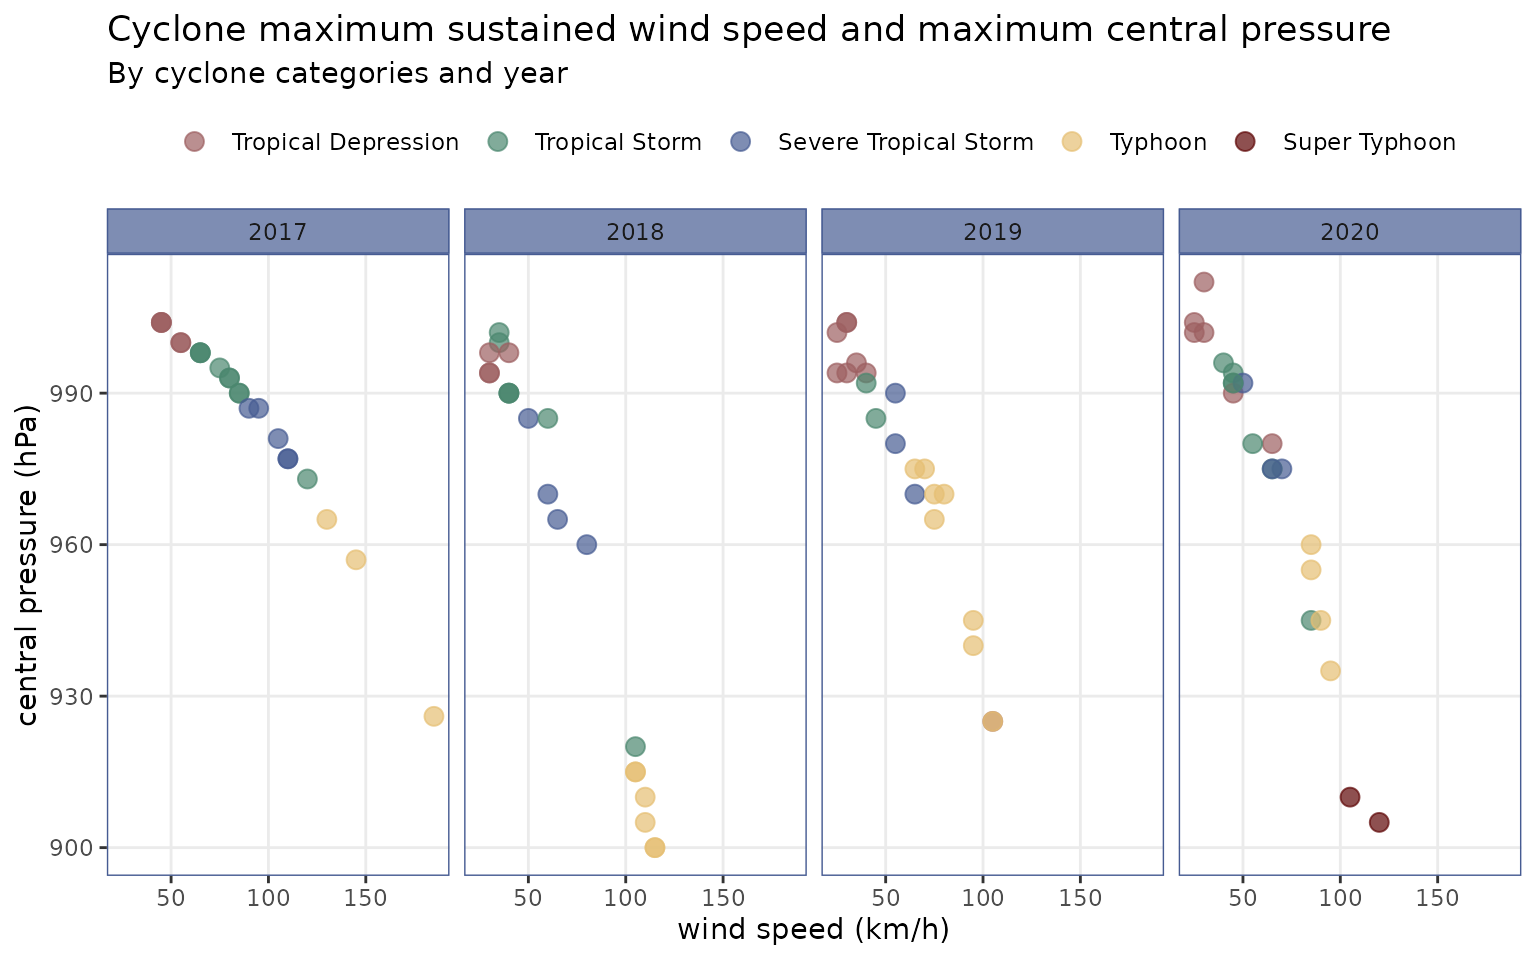
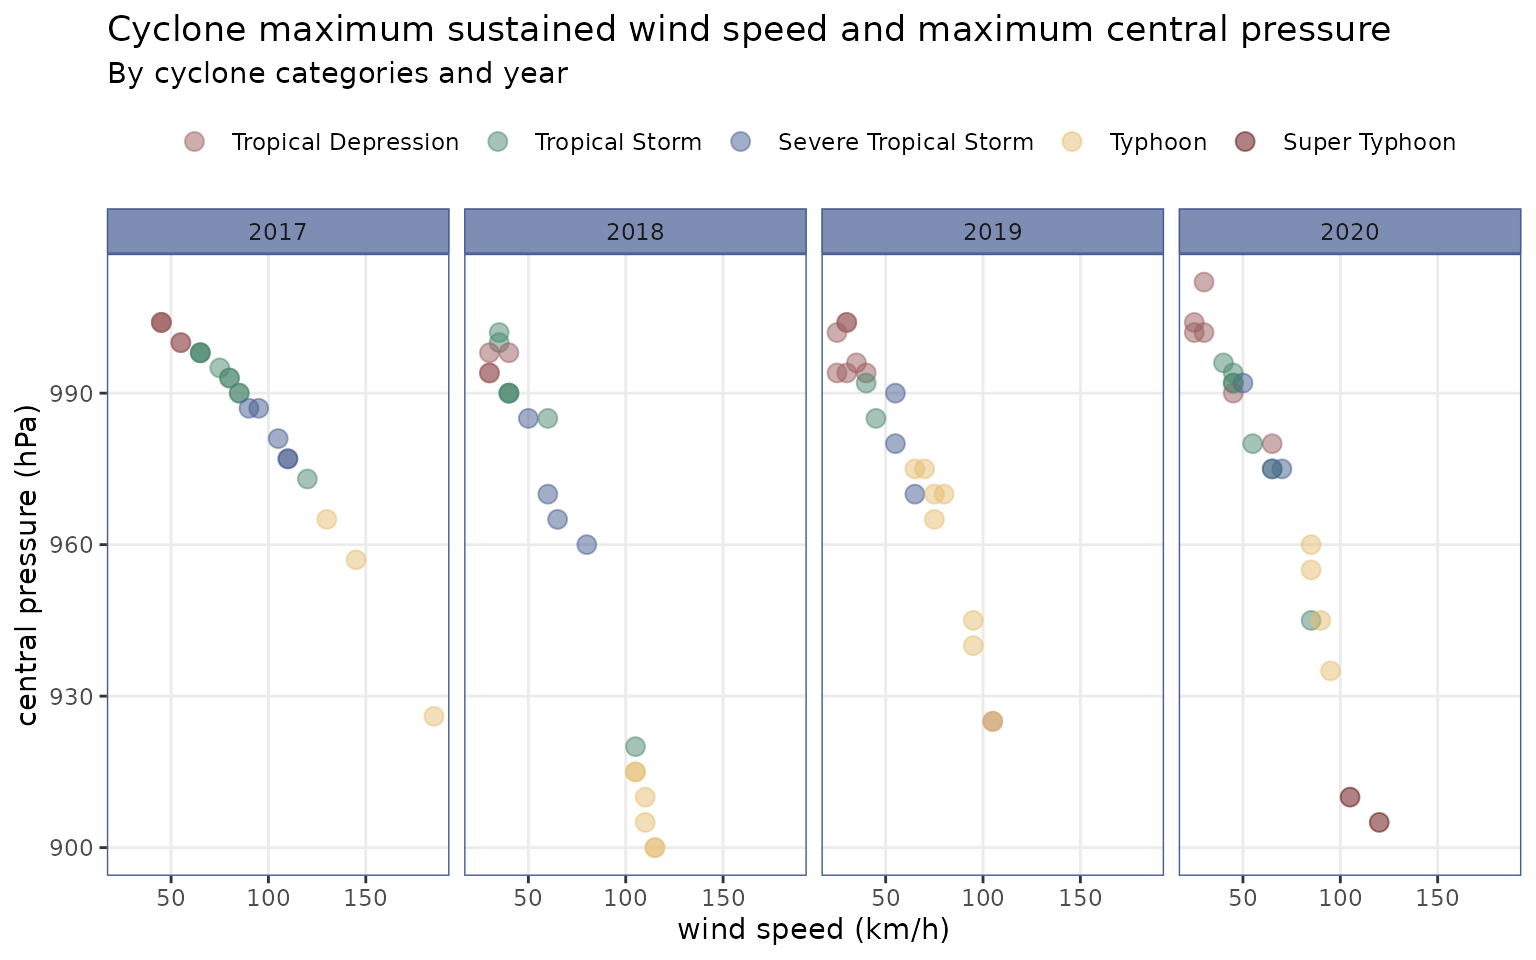
Deploying to gh-pages from @ panukatan/bagyo@9ae0af8d1ca982eabed6b3985126cda7ddf095fb 🚀

diff --git a/reference/cyclones.html b/reference/cyclones.html
@@ -1,5 +1,5 @@
 <!DOCTYPE html>
-<!-- Generated by pkgdown: do not edit by hand --><html lang="en"><head><meta http-equiv="Content-Type" content="text/html; charset=UTF-8"><meta charset="utf-8"><meta http-equiv="X-UA-Compatible" content="IE=edge"><meta name="viewport" content="width=device-width, initial-scale=1, shrink-to-fit=no"><meta name="description" content="Table of tropical cyclones that entered the Philippines from 2017 to 2020s"><title>Table of tropical cyclones that entered the Philippines from 2017 to 2020s — cyclones • bagyo</title><!-- favicons --><link rel="icon" type="image/png" sizes="16x16" href="../favicon-16x16.png"><link rel="icon" type="image/png" sizes="32x32" href="../favicon-32x32.png"><link rel="apple-touch-icon" type="image/png" sizes="180x180" href="../apple-touch-icon.png"><link rel="apple-touch-icon" type="image/png" sizes="120x120" href="../apple-touch-icon-120x120.png"><link rel="apple-touch-icon" type="image/png" sizes="76x76" href="../apple-touch-icon-76x76.png"><link rel="apple-touch-icon" type="image/png" sizes="60x60" href="../apple-touch-icon-60x60.png"><script src="../deps/jquery-3.6.0/jquery-3.6.0.min.js"></script><meta name="viewport" content="width=device-width, initial-scale=1, shrink-to-fit=no"><link href="../deps/bootstrap-5.3.1/bootstrap.min.css" rel="stylesheet"><script src="../deps/bootstrap-5.3.1/bootstrap.bundle.min.js"></script><!-- Font Awesome icons --><link rel="stylesheet" href="https://cdnjs.cloudflare.com/ajax/libs/font-awesome/5.12.1/css/all.min.css" integrity="sha256-mmgLkCYLUQbXn0B1SRqzHar6dCnv9oZFPEC1g1cwlkk=" crossorigin="anonymous"><link rel="stylesheet" href="https://cdnjs.cloudflare.com/ajax/libs/font-awesome/5.12.1/css/v4-shims.min.css" integrity="sha256-wZjR52fzng1pJHwx4aV2AO3yyTOXrcDW7jBpJtTwVxw=" crossorigin="anonymous"><!-- bootstrap-toc --><script src="https://cdn.jsdelivr.net/gh/afeld/bootstrap-toc@v1.0.1/dist/bootstrap-toc.min.js" integrity="sha256-4veVQbu7//Lk5TSmc7YV48MxtMy98e26cf5MrgZYnwo=" crossorigin="anonymous"></script><!-- headroom.js --><script src="https://cdnjs.cloudflare.com/ajax/libs/headroom/0.11.0/headroom.min.js" integrity="sha256-AsUX4SJE1+yuDu5+mAVzJbuYNPHj/WroHuZ8Ir/CkE0=" crossorigin="anonymous"></script><script src="https://cdnjs.cloudflare.com/ajax/libs/headroom/0.11.0/jQuery.headroom.min.js" integrity="sha256-ZX/yNShbjqsohH1k95liqY9Gd8uOiE1S4vZc+9KQ1K4=" crossorigin="anonymous"></script><!-- clipboard.js --><script src="https://cdnjs.cloudflare.com/ajax/libs/clipboard.js/2.0.6/clipboard.min.js" integrity="sha256-inc5kl9MA1hkeYUt+EC3BhlIgyp/2jDIyBLS6k3UxPI=" crossorigin="anonymous"></script><!-- search --><script src="https://cdnjs.cloudflare.com/ajax/libs/fuse.js/6.4.6/fuse.js" integrity="sha512-zv6Ywkjyktsohkbp9bb45V6tEMoWhzFzXis+LrMehmJZZSys19Yxf1dopHx7WzIKxr5tK2dVcYmaCk2uqdjF4A==" crossorigin="anonymous"></script><script src="https://cdnjs.cloudflare.com/ajax/libs/autocomplete.js/0.38.0/autocomplete.jquery.min.js" integrity="sha512-GU9ayf+66Xx2TmpxqJpliWbT5PiGYxpaG8rfnBEk1LL8l1KGkRShhngwdXK1UgqhAzWpZHSiYPc09/NwDQIGyg==" crossorigin="anonymous"></script><script src="https://cdnjs.cloudflare.com/ajax/libs/mark.js/8.11.1/mark.min.js" integrity="sha512-5CYOlHXGh6QpOFA/TeTylKLWfB3ftPsde7AnmhuitiTX4K5SqCLBeKro6sPS8ilsz1Q4NRx3v8Ko2IBiszzdww==" crossorigin="anonymous"></script><!-- pkgdown --><script src="../pkgdown.js"></script><meta property="og:title" content="Table of tropical cyclones that entered the Philippines from 2017 to 2020s — cyclones"><meta property="og:description" content="Table of tropical cyclones that entered the Philippines from 2017 to 2020s"><meta property="og:image" content="https://panukatan.io/bagyo/logo.png"><!-- mathjax --><script src="https://cdnjs.cloudflare.com/ajax/libs/mathjax/2.7.5/MathJax.js" integrity="sha256-nvJJv9wWKEm88qvoQl9ekL2J+k/RWIsaSScxxlsrv8k=" crossorigin="anonymous"></script><script src="https://cdnjs.cloudflare.com/ajax/libs/mathjax/2.7.5/config/TeX-AMS-MML_HTMLorMML.js" integrity="sha256-84DKXVJXs0/F8OTMzX4UR909+jtl4G7SPypPavF+GfA=" crossorigin="anonymous"></script><!--[if lt IE 9]>
+<!-- Generated by pkgdown: do not edit by hand --><html lang="en"><head><meta http-equiv="Content-Type" content="text/html; charset=UTF-8"><meta charset="utf-8"><meta http-equiv="X-UA-Compatible" content="IE=edge"><meta name="viewport" content="width=device-width, initial-scale=1, shrink-to-fit=no"><meta name="description" content="Table of tropical cyclones that entered the Philippines from 2017 to 2020"><title>Table of tropical cyclones that entered the Philippines from 2017 to 2020 — cyclones • bagyo</title><!-- favicons --><link rel="icon" type="image/png" sizes="16x16" href="../favicon-16x16.png"><link rel="icon" type="image/png" sizes="32x32" href="../favicon-32x32.png"><link rel="apple-touch-icon" type="image/png" sizes="180x180" href="../apple-touch-icon.png"><link rel="apple-touch-icon" type="image/png" sizes="120x120" href="../apple-touch-icon-120x120.png"><link rel="apple-touch-icon" type="image/png" sizes="76x76" href="../apple-touch-icon-76x76.png"><link rel="apple-touch-icon" type="image/png" sizes="60x60" href="../apple-touch-icon-60x60.png"><script src="../deps/jquery-3.6.0/jquery-3.6.0.min.js"></script><meta name="viewport" content="width=device-width, initial-scale=1, shrink-to-fit=no"><link href="../deps/bootstrap-5.3.1/bootstrap.min.css" rel="stylesheet"><script src="../deps/bootstrap-5.3.1/bootstrap.bundle.min.js"></script><!-- Font Awesome icons --><link rel="stylesheet" href="https://cdnjs.cloudflare.com/ajax/libs/font-awesome/5.12.1/css/all.min.css" integrity="sha256-mmgLkCYLUQbXn0B1SRqzHar6dCnv9oZFPEC1g1cwlkk=" crossorigin="anonymous"><link rel="stylesheet" href="https://cdnjs.cloudflare.com/ajax/libs/font-awesome/5.12.1/css/v4-shims.min.css" integrity="sha256-wZjR52fzng1pJHwx4aV2AO3yyTOXrcDW7jBpJtTwVxw=" crossorigin="anonymous"><!-- bootstrap-toc --><script src="https://cdn.jsdelivr.net/gh/afeld/bootstrap-toc@v1.0.1/dist/bootstrap-toc.min.js" integrity="sha256-4veVQbu7//Lk5TSmc7YV48MxtMy98e26cf5MrgZYnwo=" crossorigin="anonymous"></script><!-- headroom.js --><script src="https://cdnjs.cloudflare.com/ajax/libs/headroom/0.11.0/headroom.min.js" integrity="sha256-AsUX4SJE1+yuDu5+mAVzJbuYNPHj/WroHuZ8Ir/CkE0=" crossorigin="anonymous"></script><script src="https://cdnjs.cloudflare.com/ajax/libs/headroom/0.11.0/jQuery.headroom.min.js" integrity="sha256-ZX/yNShbjqsohH1k95liqY9Gd8uOiE1S4vZc+9KQ1K4=" crossorigin="anonymous"></script><!-- clipboard.js --><script src="https://cdnjs.cloudflare.com/ajax/libs/clipboard.js/2.0.6/clipboard.min.js" integrity="sha256-inc5kl9MA1hkeYUt+EC3BhlIgyp/2jDIyBLS6k3UxPI=" crossorigin="anonymous"></script><!-- search --><script src="https://cdnjs.cloudflare.com/ajax/libs/fuse.js/6.4.6/fuse.js" integrity="sha512-zv6Ywkjyktsohkbp9bb45V6tEMoWhzFzXis+LrMehmJZZSys19Yxf1dopHx7WzIKxr5tK2dVcYmaCk2uqdjF4A==" crossorigin="anonymous"></script><script src="https://cdnjs.cloudflare.com/ajax/libs/autocomplete.js/0.38.0/autocomplete.jquery.min.js" integrity="sha512-GU9ayf+66Xx2TmpxqJpliWbT5PiGYxpaG8rfnBEk1LL8l1KGkRShhngwdXK1UgqhAzWpZHSiYPc09/NwDQIGyg==" crossorigin="anonymous"></script><script src="https://cdnjs.cloudflare.com/ajax/libs/mark.js/8.11.1/mark.min.js" integrity="sha512-5CYOlHXGh6QpOFA/TeTylKLWfB3ftPsde7AnmhuitiTX4K5SqCLBeKro6sPS8ilsz1Q4NRx3v8Ko2IBiszzdww==" crossorigin="anonymous"></script><!-- pkgdown --><script src="../pkgdown.js"></script><meta property="og:title" content="Table of tropical cyclones that entered the Philippines from 2017 to 2020 — cyclones"><meta property="og:description" content="Table of tropical cyclones that entered the Philippines from 2017 to 2020"><meta property="og:image" content="https://panukatan.io/bagyo/logo.png"><!-- mathjax --><script src="https://cdnjs.cloudflare.com/ajax/libs/mathjax/2.7.5/MathJax.js" integrity="sha256-nvJJv9wWKEm88qvoQl9ekL2J+k/RWIsaSScxxlsrv8k=" crossorigin="anonymous"></script><script src="https://cdnjs.cloudflare.com/ajax/libs/mathjax/2.7.5/config/TeX-AMS-MML_HTMLorMML.js" integrity="sha256-84DKXVJXs0/F8OTMzX4UR909+jtl4G7SPypPavF+GfA=" crossorigin="anonymous"></script><!--[if lt IE 9]>
 <script src="https://oss.maxcdn.com/html5shiv/3.7.3/html5shiv.min.js"></script>
 <script src="https://oss.maxcdn.com/respond/1.4.2/respond.min.js"></script>
 <![endif]--></head><body>
@@ -46,13 +46,13 @@
 </nav><div class="container template-reference-topic">
 <div class="row">
   <main id="main" class="col-md-9"><div class="page-header">
-      <img src="../logo.png" class="logo" alt=""><h1>Table of tropical cyclones that entered the Philippines from 2017 to 2020s</h1>
+      <img src="../logo.png" class="logo" alt=""><h1>Table of tropical cyclones that entered the Philippines from 2017 to 2020</h1>
       <small class="dont-index">Source: <a href="https://github.com/panukatan/bagyo/blob/HEAD/R/data.R" class="external-link"><code>R/data.R</code></a></small>
       <div class="d-none name"><code>cyclones.Rd</code></div>
     </div>
 
     <div class="ref-description section level2">
-    <p>Table of tropical cyclones that entered the Philippines from 2017 to 2020s</p>
+    <p>Table of tropical cyclones that entered the Philippines from 2017 to 2020</p>
     </div>
 
     <div class="section level2">

diff --git a/articles/visualisation.html b/articles/visualisation.html
@@ -245,7 +245,7 @@ particularly those using the <code>tidyverse</code> and
 <span><span class="va">cyclones</span> <span class="op">|&gt;</span></span>
 <span>  <span class="fu">dplyr</span><span class="fu">::</span><span class="fu"><a href="https://dplyr.tidyverse.org/reference/mutate.html" class="external-link">mutate</a></span><span class="op">(</span>year <span class="op">=</span> <span class="fu"><a href="https://rdrr.io/r/base/factor.html" class="external-link">factor</a></span><span class="op">(</span><span class="va">year</span><span class="op">)</span><span class="op">)</span> <span class="op">|&gt;</span></span>
 <span>  <span class="fu"><a href="https://ggplot2.tidyverse.org/reference/ggplot.html" class="external-link">ggplot</a></span><span class="op">(</span>mapping <span class="op">=</span> <span class="fu"><a href="https://ggplot2.tidyverse.org/reference/aes.html" class="external-link">aes</a></span><span class="op">(</span>x <span class="op">=</span> <span class="va">speed</span>, y <span class="op">=</span> <span class="va">pressure</span><span class="op">)</span><span class="op">)</span> <span class="op">+</span></span>
-<span>  <span class="fu"><a href="https://ggplot2.tidyverse.org/reference/geom_point.html" class="external-link">geom_point</a></span><span class="op">(</span>mapping <span class="op">=</span> <span class="fu"><a href="https://ggplot2.tidyverse.org/reference/aes.html" class="external-link">aes</a></span><span class="op">(</span>colour <span class="op">=</span> <span class="va">category_name</span><span class="op">)</span>, size <span class="op">=</span> <span class="fl">3</span>, alpha <span class="op">=</span> <span class="fl">0.7</span><span class="op">)</span> <span class="op">+</span></span>
+<span>  <span class="fu"><a href="https://ggplot2.tidyverse.org/reference/geom_point.html" class="external-link">geom_point</a></span><span class="op">(</span>mapping <span class="op">=</span> <span class="fu"><a href="https://ggplot2.tidyverse.org/reference/aes.html" class="external-link">aes</a></span><span class="op">(</span>colour <span class="op">=</span> <span class="va">category_name</span><span class="op">)</span>, size <span class="op">=</span> <span class="fl">3</span>, alpha <span class="op">=</span> <span class="fl">0.5</span><span class="op">)</span> <span class="op">+</span></span>
 <span>  <span class="fu"><a href="https://ggplot2.tidyverse.org/reference/scale_manual.html" class="external-link">scale_colour_manual</a></span><span class="op">(</span></span>
 <span>    name <span class="op">=</span> <span class="cn">NULL</span>,</span>
 <span>    values <span class="op">=</span> <span class="fu"><a href="https://rdrr.io/r/base/c.html" class="external-link">c</a></span><span class="op">(</span><span class="st">"#9c5e60"</span>, <span class="st">"#4b876e"</span>, <span class="st">"#465b92"</span>, <span class="st">"#e5be72"</span>, <span class="st">"#5d0505"</span><span class="op">)</span></span>
@@ -274,8 +274,12 @@ particularly those using the <code>tidyverse</code> and
 <span>    duration <span class="op">=</span> <span class="fu"><a href="https://rdrr.io/r/base/numeric.html" class="external-link">as.numeric</a></span><span class="op">(</span><span class="va">end</span> <span class="op">-</span> <span class="va">start</span><span class="op">)</span></span>
 <span>  <span class="op">)</span> <span class="op">|&gt;</span></span>
 <span>  <span class="fu"><a href="https://ggplot2.tidyverse.org/reference/ggplot.html" class="external-link">ggplot</a></span><span class="op">(</span>mapping <span class="op">=</span> <span class="fu"><a href="https://ggplot2.tidyverse.org/reference/aes.html" class="external-link">aes</a></span><span class="op">(</span>x <span class="op">=</span> <span class="va">speed</span>, y <span class="op">=</span> <span class="va">duration</span><span class="op">)</span><span class="op">)</span> <span class="op">+</span></span>
-<span>  <span class="fu"><a href="https://ggplot2.tidyverse.org/reference/geom_point.html" class="external-link">geom_point</a></span><span class="op">(</span>mapping <span class="op">=</span> <span class="fu"><a href="https://ggplot2.tidyverse.org/reference/aes.html" class="external-link">aes</a></span><span class="op">(</span>colour <span class="op">=</span> <span class="va">year</span>, shape <span class="op">=</span> <span class="va">year</span><span class="op">)</span>, size <span class="op">=</span> <span class="fl">3</span><span class="op">)</span> <span class="op">+</span></span>
-<span>  <span class="fu"><a href="https://ggplot2.tidyverse.org/reference/geom_smooth.html" class="external-link">geom_smooth</a></span><span class="op">(</span>mapping <span class="op">=</span> <span class="fu"><a href="https://ggplot2.tidyverse.org/reference/aes.html" class="external-link">aes</a></span><span class="op">(</span>colour <span class="op">=</span> <span class="va">year</span><span class="op">)</span>, method <span class="op">=</span> <span class="st">"lm"</span>, se <span class="op">=</span> <span class="cn">FALSE</span><span class="op">)</span> <span class="op">+</span></span>
+<span>  <span class="fu"><a href="https://ggplot2.tidyverse.org/reference/geom_point.html" class="external-link">geom_point</a></span><span class="op">(</span></span>
+<span>    mapping <span class="op">=</span> <span class="fu"><a href="https://ggplot2.tidyverse.org/reference/aes.html" class="external-link">aes</a></span><span class="op">(</span>colour <span class="op">=</span> <span class="va">year</span>, shape <span class="op">=</span> <span class="va">year</span><span class="op">)</span>, size <span class="op">=</span> <span class="fl">3</span>, alpha <span class="op">=</span> <span class="fl">0.5</span></span>
+<span>  <span class="op">)</span> <span class="op">+</span></span>
+<span>  <span class="fu"><a href="https://ggplot2.tidyverse.org/reference/geom_smooth.html" class="external-link">geom_smooth</a></span><span class="op">(</span></span>
+<span>    mapping <span class="op">=</span> <span class="fu"><a href="https://ggplot2.tidyverse.org/reference/aes.html" class="external-link">aes</a></span><span class="op">(</span>colour <span class="op">=</span> <span class="va">year</span><span class="op">)</span>, method <span class="op">=</span> <span class="st">"lm"</span>, se <span class="op">=</span> <span class="cn">FALSE</span>, linewidth <span class="op">=</span> <span class="fl">0.75</span></span>
+<span>  <span class="op">)</span> <span class="op">+</span></span>
 <span>  <span class="fu"><a href="https://ggplot2.tidyverse.org/reference/scale_manual.html" class="external-link">scale_colour_manual</a></span><span class="op">(</span></span>
 <span>    values <span class="op">=</span> <span class="fu"><a href="https://rdrr.io/r/base/c.html" class="external-link">c</a></span><span class="op">(</span><span class="st">"#9c5e60"</span>, <span class="st">"#4b876e"</span>, <span class="st">"#465b92"</span>, <span class="st">"#e5be72"</span><span class="op">)</span></span>
 <span>  <span class="op">)</span> <span class="op">+</span></span>
@@ -286,7 +290,8 @@ particularly those using the <code>tidyverse</code> and
 <span>    x <span class="op">=</span> <span class="st">"speed (km/h)"</span>, y <span class="op">=</span> <span class="st">"duration (hours)"</span>,</span>
 <span>    colour <span class="op">=</span> <span class="st">"Year"</span>, shape <span class="op">=</span> <span class="st">"Year"</span></span>
 <span>  <span class="op">)</span> <span class="op">+</span></span>
-<span>  <span class="fu"><a href="https://ggplot2.tidyverse.org/reference/ggtheme.html" class="external-link">theme_minimal</a></span><span class="op">(</span><span class="op">)</span></span></code></pre></div>
+<span>  <span class="fu"><a href="https://ggplot2.tidyverse.org/reference/ggtheme.html" class="external-link">theme_minimal</a></span><span class="op">(</span><span class="op">)</span> <span class="op">+</span></span>
+<span>  <span class="fu"><a href="https://ggplot2.tidyverse.org/reference/theme.html" class="external-link">theme</a></span><span class="op">(</span>legend.position <span class="op">=</span> <span class="st">"top"</span><span class="op">)</span></span></code></pre></div>
 <p><img src="visualisation_files/figure-html/scatterplot2-1.png" width="700" style="display: block; margin: auto;"></p>
 </div>
 <div class="section level3">

diff --git a/reference/index.html b/reference/index.html
@@ -80,7 +80,7 @@
           
           <code><a href="cyclones.html">cyclones</a></code> 
         </dt>
-        <dd>Table of tropical cyclones that entered the Philippines from 2017 to 2020s</dd>
+        <dd>Table of tropical cyclones that entered the Philippines from 2017 to 2020</dd>
       </dl></div>
   </main><aside class="col-md-3"><nav id="toc"><h2>On this page</h2>
     </nav></aside></div>
